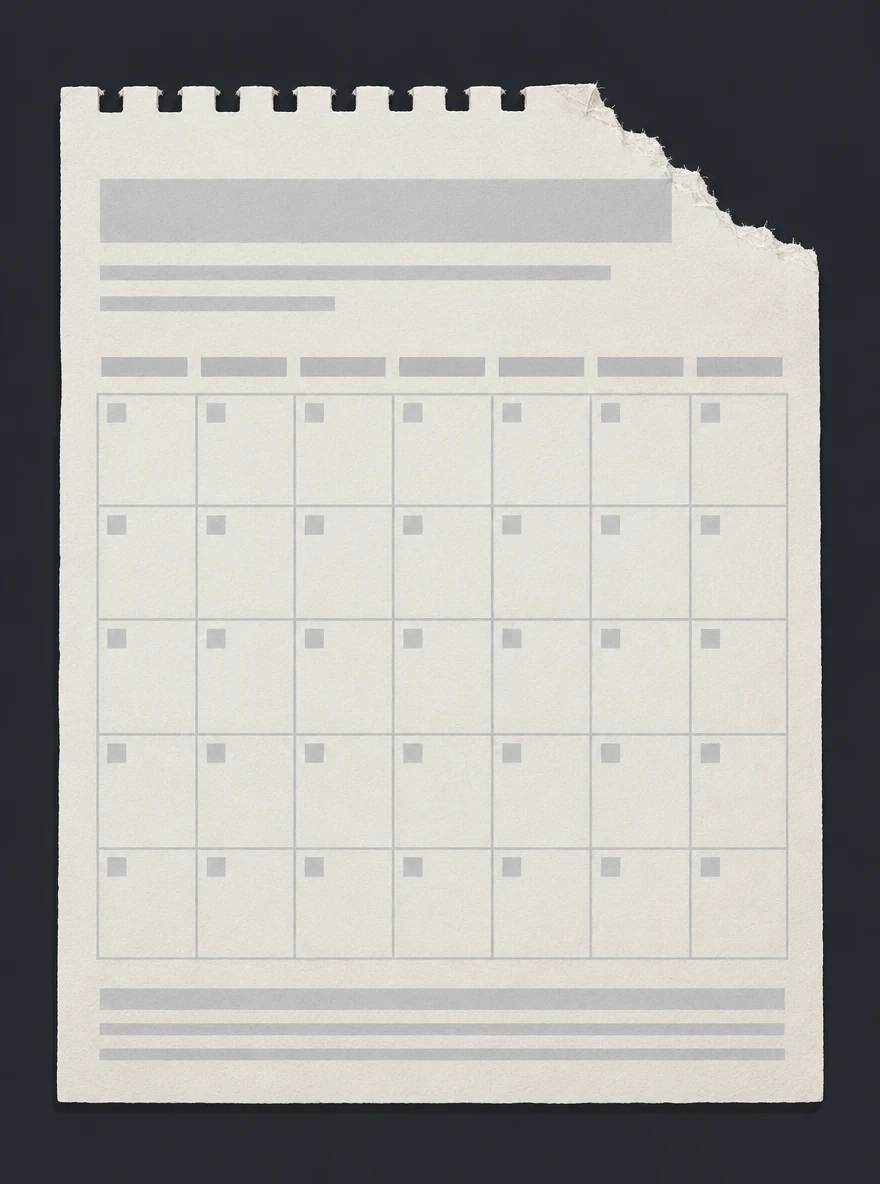
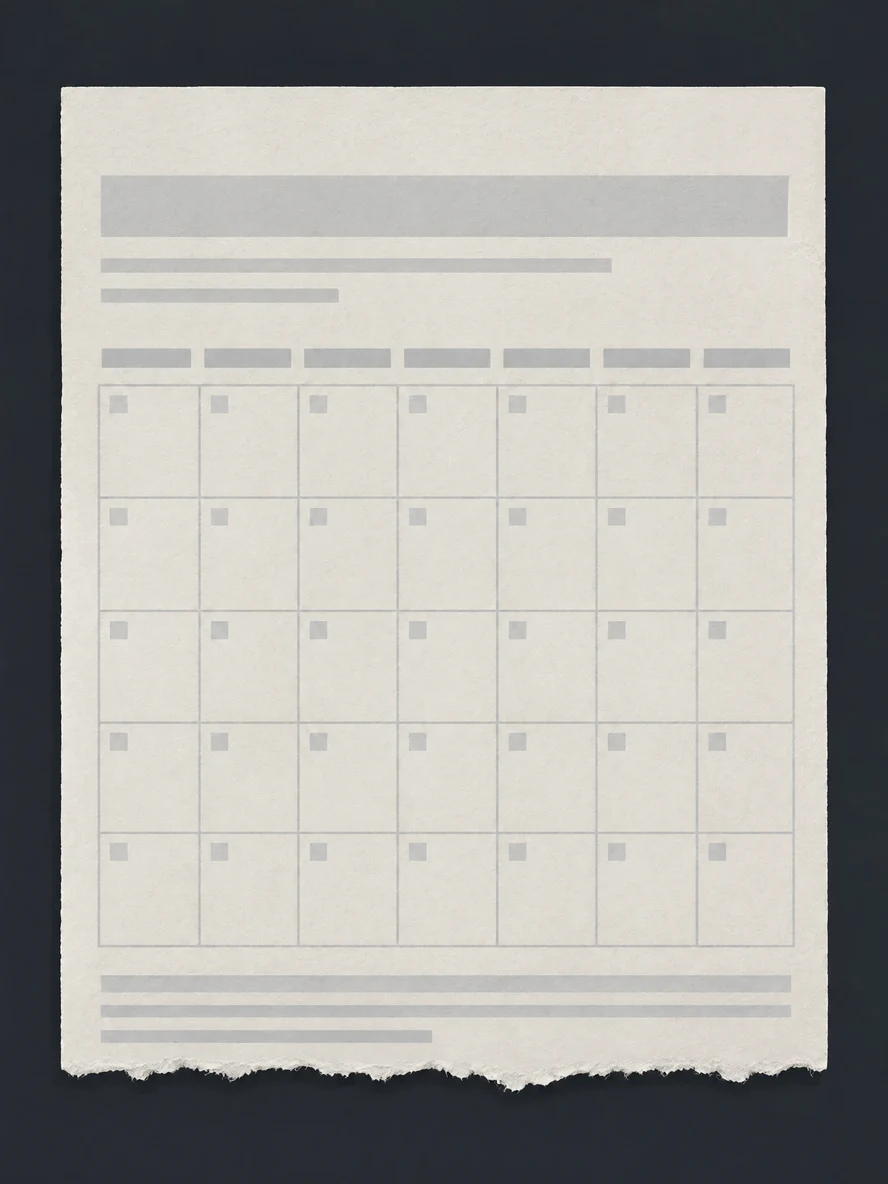
Ảnh Vụ 1 bản 6 (B19): 21 ảnh Topview 2K cho Ngày hội, Trung thu, phòng 408, tài liệu, bảng điều tra, sổ tổng kết, cảnh bóng mờ, dấu A/B/C
Nền Trung thu bỏ quầy Robotics và balo bánh răng, đĩa đúng 4 bánh (ghép tay) và bản 3 bánh lúc 19:15;
nền sân có năm người để quan sát (bé Na giấu tay sau lưng); Khánh không balo ở Ngày hội; thư kiến nghị
không chữ ký, phiếu gửi ký "Hoài", sổ thu hộp, thẻ lịch rách mép dưới. Nguồn webp + ghi chú ở
art/nguon/topview-2026-10-08/, xử lý bằng art/nguon/xu-ly-anh-b19-2026-10-08.py.

diff --git a/art/nguon/xu-ly-anh-b19-2026-10-08.py b/art/nguon/xu-ly-anh-b19-2026-10-08.py
@@ -1,0 +1,108 @@
+"""Ảnh Topview gói B19 (Vụ 1 bản 6) → ảnh trong game.
+
+Chạy: python art/nguon/xu-ly-anh-b19-2026-10-08.py [mã nguồn …]   (không đối số = mọi mục trong BANG có tệp nguồn)
+
+Nguồn: art/nguon/topview-2026-10-08/<mã>.webp (ảnh Topview Credit Mode 2K, lưu webp q92 cho nhẹ; bản PNG gốc còn trên bảng Topview).
+'-ghep' là ảnh đã sửa tay: thêm chiếc bánh thứ tư (trung-thu-4banh-ghep), xóa chiếc bánh thứ tư (trung-thu-nguoi-ghep), vì model vẽ sai số bánh.
+Kiểu xử lý:
+- bg    → assets/mvp/nen/<đích>.webp, 2048×1152 (nền mùa 1 vẽ 2K cho nét)
+- cg    → assets/mvp/cg/<đích>.webp, 1360×768
+- doc   → assets/mvp/giay/<đích>.webp, giữ tỉ lệ, cạnh dài 1184
+- char  → assets/mvp/nhan-vat/<đích>.webp, tách nền hồng tím, 768×1360 (ảnh sửa từ chân dung cũ nên khung giữ nguyên)
+- dau   → assets/mvp/giao-dien/<đích>.webp, tách nền trắng, cắt sát, cạnh dài 512
+Tách nền dùng lại xu-ly-anh-2026-09-30.py.
+"""
+import importlib.util
+import sys
+from pathlib import Path
+
+import numpy as np
+from PIL import Image
+
+GOC = Path(__file__).resolve().parents[2]
+NGUON = GOC / 'art/nguon/topview-2026-10-08'
+A = GOC / 'prototype/src/assets/mvp'
+
+_spec = importlib.util.spec_from_file_location('xu_ly_cu', Path(__file__).with_name('xu-ly-anh-2026-09-30.py'))
+cu = importlib.util.module_from_spec(_spec)
+_spec.loader.exec_module(cu)
+
+# mã nguồn → (kiểu, tên đích)
+BANG = {
+    'trung-thu-4banh-ghep': ('bg', 'bg-mvp-san-ktx-trung-thu'),
+    'trung-thu-4banh-b': ('bg', 'bg-mvp-san-ktx-trung-thu-ba-banh'),
+    'cong-bong-mo-3': ('bg', 'bg-mvp-cong-ktx-bong-mo'),
+    'trung-thu-nguoi-ghep': ('bg', 'bg-mvp-san-ktx-trung-thu-nguoi'),
+    'khanh-ban-to-chuc': ('char', 'char-khanh-ban-to-chuc'),
+    'phong-408': ('cg', 'cg-phong-408'),
+    'ban-clb-vang-2': ('cg', 'cg-ban-clb-vang'),
+    'phieu-trang-2': ('cg', 'cg-phieu-trang'),
+    'thu-kien-nghi': ('doc', 'doc-thu-kien-nghi'),
+    'phieu-gui-hoai-2': ('doc', 'doc-phieu-gui-hoai'),
+    'so-thu-hop-2': ('doc', 'doc-so-thu-hop'),
+    'the-lich-rach-2': ('doc', 'doc-the-lich-rach'),
+    'nam-ghe-2': ('cg', 'cg-nam-ghe'),
+    'tung-om-to-roi-5': ('cg', 'cg-tung-om-to-roi'),
+    'duy-dan-chia-khoa-4': ('cg', 'cg-duy-dan-chia-khoa'),
+    'ha-vy-ghi-so-4': ('cg', 'cg-ha-vy-ghi-so'),
+    'ca-doi-quanh-bang-3': ('cg', 'cg-ca-doi-quanh-bang'),
+    'bang-the-trang-2': ('cg', 'cg-bang-the-trang'),
+    'so-tong-ket-2': ('cg', 'cg-so-tong-ket'),
+    'dau-a': ('dau', 'dau-rank-a'),
+    'dau-b': ('dau', 'dau-rank-b'),
+    'dau-c': ('dau', 'dau-rank-c'),
+}
+
+
+def tach_muc_do(im: Image.Image) -> Image.Image:
+    """Dấu mực đỏ trên giấy trắng → giữ màu đỏ, độ trong theo độ 'đỏ' (khoảng cách tới trắng)."""
+    a = np.asarray(im.convert('RGB')).astype(np.float32)
+    dam = 255.0 - np.minimum(a[..., 1], a[..., 2])  # giấy trắng ~0, mực đỏ cao
+    alpha = np.clip((dam - 25.0) / (150.0 - 25.0), 0, 1) * 255
+    out = np.zeros((*a.shape[:2], 4), np.uint8)
+    out[..., 0] = 200
+    out[..., 1] = 28
+    out[..., 2] = 36
+    out[..., 3] = alpha.astype(np.uint8)
+    return Image.fromarray(out, 'RGBA')
+
+
+def xu_ly(ma: str) -> str:
+    kieu, dich = BANG[ma]
+    nguon = NGUON / f'{ma}.png'
+    im = Image.open(nguon if nguon.exists() else nguon.with_suffix('.webp'))
+    if kieu == 'bg':
+        ra = A / 'nen' / f'{dich}.webp'
+        im.convert('RGB').resize((2048, 1152), Image.LANCZOS).save(ra, quality=86)
+    elif kieu == 'cg':
+        ra = A / 'cg' / f'{dich}.webp'
+        im.convert('RGB').resize((1360, 768), Image.LANCZOS).save(ra, quality=88)
+    elif kieu == 'doc':
+        ra = A / 'giay' / f'{dich}.webp'
+        im = im.convert('RGB')
+        im.thumbnail((1184, 1184), Image.LANCZOS)
+        im.save(ra, quality=88)
+    elif kieu == 'char':
+        ra = A / 'nhan-vat' / f'{dich}.webp'
+        trong = cu.tach_hong_tim(im.convert('RGB'))
+        w, h = trong.size
+        nho = trong.resize((768, round(h * 768 / w)), Image.LANCZOS)
+        khung = Image.new('RGBA', (768, 1360), (0, 0, 0, 0))
+        khung.paste(nho, (0, 0))
+        khung.save(ra, quality=90)
+    elif kieu == 'dau':
+        ra = A / 'giao-dien' / f'{dich}.webp'
+        cu.thu_nho(cu.cat_sat(tach_muc_do(im), 8), 512).save(ra, quality=90)
+    else:
+        raise ValueError(kieu)
+    return str(ra.relative_to(GOC))
+
+
+def main():
+    mas = sys.argv[1:] or [m for m in BANG if (NGUON / f'{m}.png').exists() or (NGUON / f'{m}.webp').exists()]
+    for m in mas:
+        print(m, '→', xu_ly(m))
+
+
+if __name__ == '__main__':
+    main()

diff --git a/art/nguon/topview-2026-10-08/GHI-CHU.md b/art/nguon/topview-2026-10-08/GHI-CHU.md
@@ -1,0 +1,29 @@
+# Ảnh gói B19 (Vụ 1 bản 6), 08/10/2026
+
+Topview, GPT Image 2.5 Flare, Credit Mode 2K (0,32 credit/ảnh), bảng "My First Board". Mã task trong prompt mở đầu `[id: b19-…]`.
+Xử lý sang game: `python art/nguon/xu-ly-anh-b19-2026-10-08.py` (bảng nguồn → đích ở đầu tệp).
+
+| Nguồn | Ảnh trong game | Cách làm |
+|---|---|---|
+| trung-thu-4banh-ghep | nen/bg-mvp-san-ktx-trung-thu | sửa nền cũ: bỏ quầy Robotics + balo bánh răng, thêm đèn ông sao dọc hàng rào; model ra 3 bánh nên ghép tay chiếc thứ tư |
+| trung-thu-4banh-b | nen/bg-mvp-san-ktx-trung-thu-ba-banh | cùng cảnh, 3 bánh (lúc 19:15) |
+| trung-thu-nguoi-ghep | nen/bg-mvp-san-ktx-trung-thu-nguoi | vẽ bằng chữ (không ảnh mẫu): năm người đứng tách nhau để bấm, bé Na giấu tay sau lưng; xóa tay chiếc bánh thứ tư (OpenCV) |
+| khanh-ban-to-chuc | nhan-vat/char-khanh-ban-to-chuc | sửa chân dung Khánh: bỏ balo + huy hiệu bánh răng (để không lộ người đưa phong bì ở Ngày hội) |
+| phong-408 | cg/cg-phong-408 | sửa nền phòng KTX: balo + áo tình nguyện xanh ở giường trên, giường dưới trống |
+| ban-clb-vang-2 | cg/cg-ban-clb-vang | Minh Anh ngồi một mình ở bàn trắng, Khánh (không balo) ghé bàn |
+| phieu-trang-2 | cg/cg-phieu-trang | cận tay lật xấp phiếu đăng ký trắng |
+| tung-om-to-roi-5 | cg/cg-tung-om-to-roi | vẽ bằng chữ rồi sửa mặt theo char-tung-anchor |
+| nam-ghe-2 | cg/cg-nam-ghe | bàn Trung thu, 4 bánh, năm ghế nhựa, một ghế trống |
+| duy-dan-chia-khoa-4 | cg/cg-duy-dan-chia-khoa | vẽ bằng chữ rồi sửa mặt theo char-duy (Duy không đeo kính) |
+| ha-vy-ghi-so-4 | cg/cg-ha-vy-ghi-so | vẽ bằng chữ rồi sửa mặt theo char-ha-vy-anchor; sổ ghi 19:00, 19:05, 19:10 |
+| ca-doi-quanh-bang-3 | cg/cg-ca-doi-quanh-bang | vẽ bằng chữ: bốn người quay lưng nhìn bảng, bánh mì que, ấm trà, quạt cây |
+| bang-the-trang-2 | cg/cg-bang-the-trang | bảng ghim, ảnh phong bì nâu, thẻ trắng với sợi chỉ thả lơ lửng |
+| so-tong-ket-2 | cg/cg-so-tong-ket | sổ CLB mở, góc dưới phải trang phải để trống cho dấu |
+| cong-bong-mo-3 | nen/bg-mvp-cong-ktx-bong-mo | vẽ bằng chữ: cổng KTX lúc rạng sáng, hai bóng mờ trao phong bì nâu |
+| thu-kien-nghi | giay/doc-thu-kien-nghi | sửa thư cũ: bỏ vạch đen và chữ ký |
+| phieu-gui-hoai-2 | giay/doc-phieu-gui-hoai | vẽ bằng chữ: phiếu gửi, chữ ký tay "Hoài" |
+| so-thu-hop-2 | giay/doc-so-thu-hop | vẽ bằng chữ: sổ thu hộp, ba dòng có ngoặc |
+| the-lich-rach-2 | giay/doc-the-lich-rach | sửa thẻ lịch cũ: rách mép dưới thay vì góc trên |
+| dau-a/b/c | giao-dien/dau-rank-a/b/c | dấu đỏ trên giấy trắng → tách mực đỏ trong suốt |
+
+Bài học (đã ghi memory): ảnh sửa từ ảnh mẫu (Image Edit) chỉ hợp khi đổi ÍT; muốn cảnh mới có nhân vật thì vẽ bằng chữ (không ảnh mẫu) rồi sửa mặt bằng một lượt Image Edit với ảnh neo. Đưa ảnh nền + ảnh nhân vật cùng lúc thì model hay xếp nhân vật đứng tạo dáng trước nền, hoặc trả lại nguyên ảnh nền. Đếm vật (số bánh) model hay sai: kiểm bằng mắt, sửa tay.
